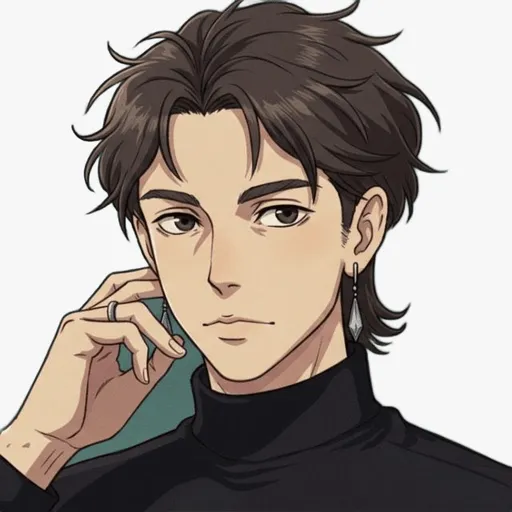
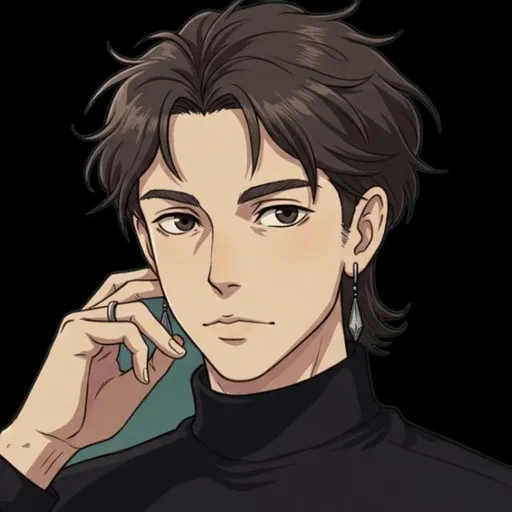
feat: finalizando função removeBg

diff --git a/src/services/removeBg.ts b/src/services/removeBg.ts
@@ -2,14 +2,23 @@ import { Chat, Client, Message, MessageMedia } from "whatsapp-web.js";
 import path from "path";
 import fs from "fs"
 import removeBackground from "@imgly/background-removal-node";
+import { helpers } from "../utils/index";
 
 export async function removeBg(message: Message, chat: Chat, client: Client) {
-    if (message.type !== "image") {
-        await message.reply("Oops! I can only process images right now. Please send me an image. 😊");
+    const quotedMessage = await message.getQuotedMessage()
+    const msg = message.hasQuotedMsg ? quotedMessage : message
+    await msg.react("⏳")
+
+    if (msg.type !== "image") {
+        await msg.reply(
+            "😑 Sério mesmo? Esse comando é só pra imagens. Não tá claro? 🙃"
+        )
+            .then(async (message) => await message.react("🙄"))
+        await msg.react("❌")
         return;
     }
 
-    const media = await message.downloadMedia()
+    const media = await msg.downloadMedia()
 
     const outputDir: string = path.resolve(process.cwd(), 'src/assets/images/imageWithoutBg');
     if (!fs.existsSync(outputDir)) {
@@ -17,19 +26,33 @@ export async function removeBg(message: Message, chat: Chat, client: Client) {
     }
 
     const imagePath = path.join(outputDir, 'image.jpg');
-    const imageOutput = path.join(outputDir, 'image.png');
+    const imageOutput = path.join(outputDir, `${message._data.notifyName}.png`);
 
     fs.writeFileSync(imagePath, Buffer.from(media.data, "base64"))
 
     removeBackground(imagePath).then(async (blob: Blob) => {
         const arrayBuffer = await blob.arrayBuffer();
-        fs.writeFileSync(imageOutput, Buffer.from(arrayBuffer))
+        fs.writeFileSync(imageOutput, Buffer.from(arrayBuffer));
 
-        const media = MessageMedia.fromFilePath(imageOutput)
+        const media = MessageMedia.fromFilePath(imageOutput);
 
-        await client.sendMessage(chat.id._serialized, media, { sendMediaAsDocument: true });
+        await client.sendMessage(chat.id._serialized, media, {
+            sendMediaAsDocument: true,
+            caption: "Aqui está sua imagem com o fundo removido! "
+        }).then(async (message) => await message.react("❤"))
+        await msg.react("⌛")
+        await helpers.delay(2000)
 
         fs.unlinkSync(imagePath);
         fs.unlinkSync(imageOutput);
     })
+        .catch(async (error) => {
+            console.error("Erro ao remover o fundo da imagem:", error);
+            await msg.reply("Desculpe, ocorreu um erro ao tentar remover o fundo da imagem. Por favor, tente novamente mais tarde. 😔")
+                .then(async (message) => await message.react("😥"));
+            await msg.react("😥")
+        })
+        .finally(async () => {
+            await msg.react("✅");
+        })
 }
